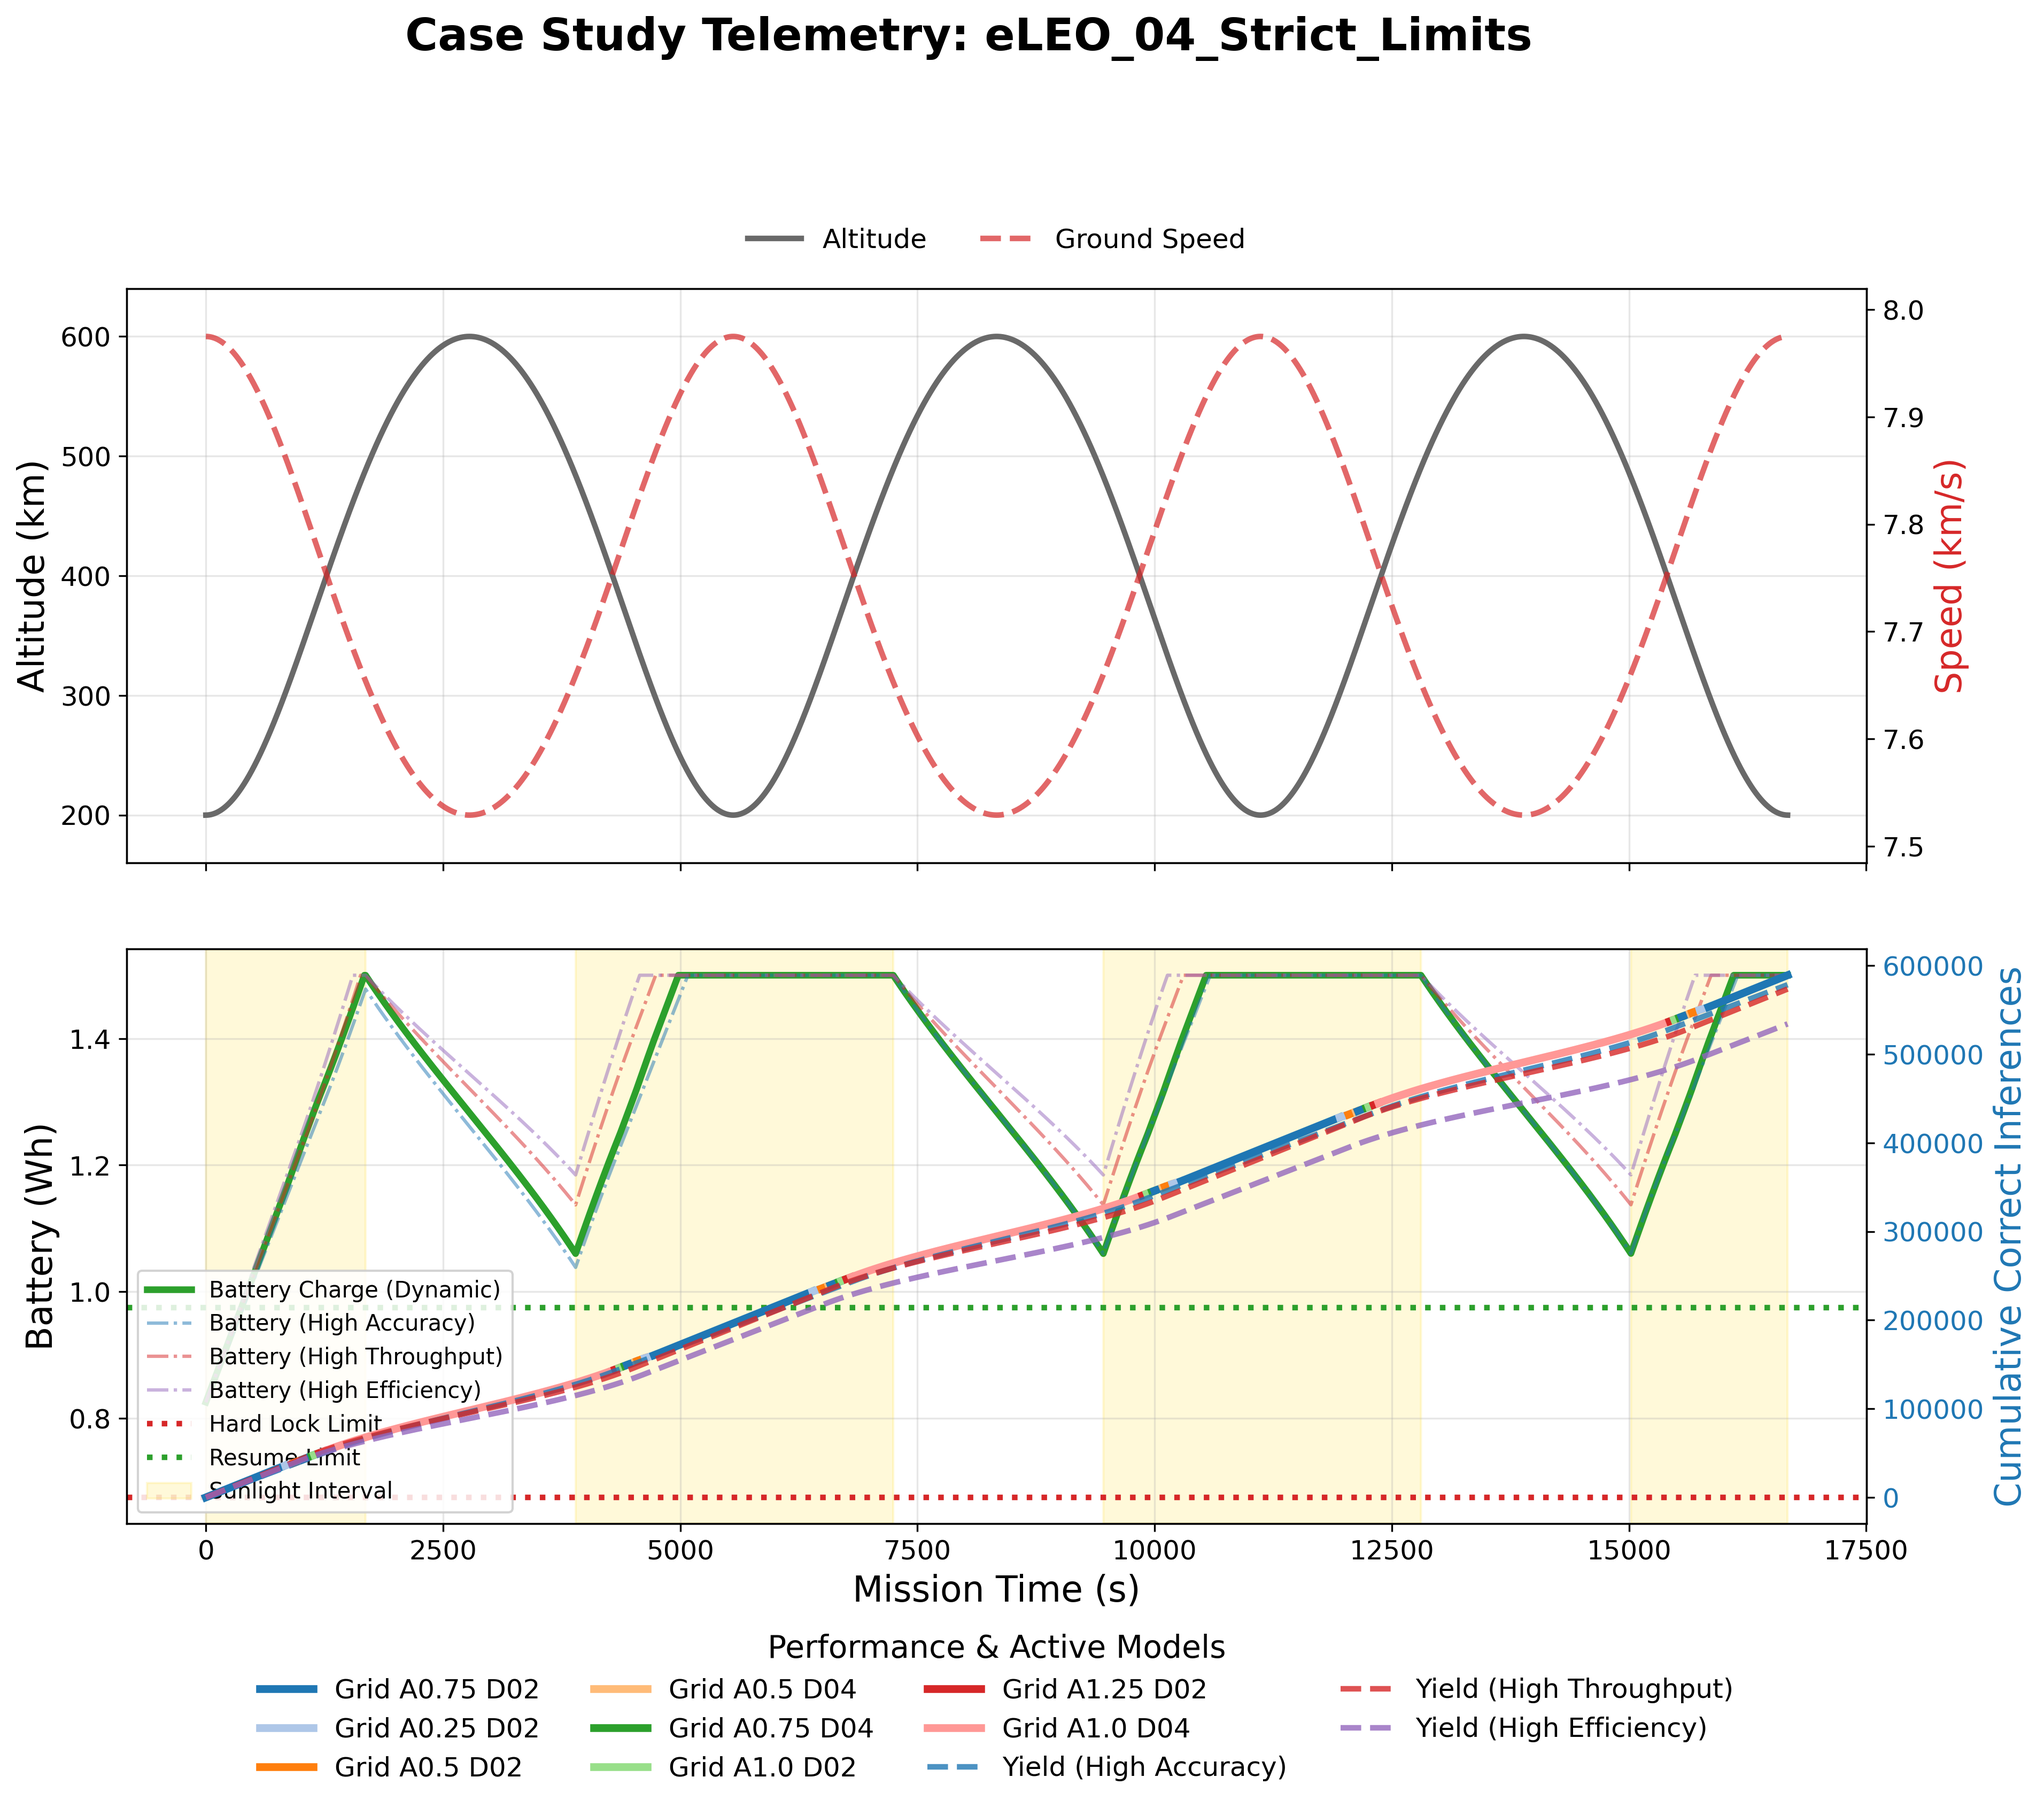
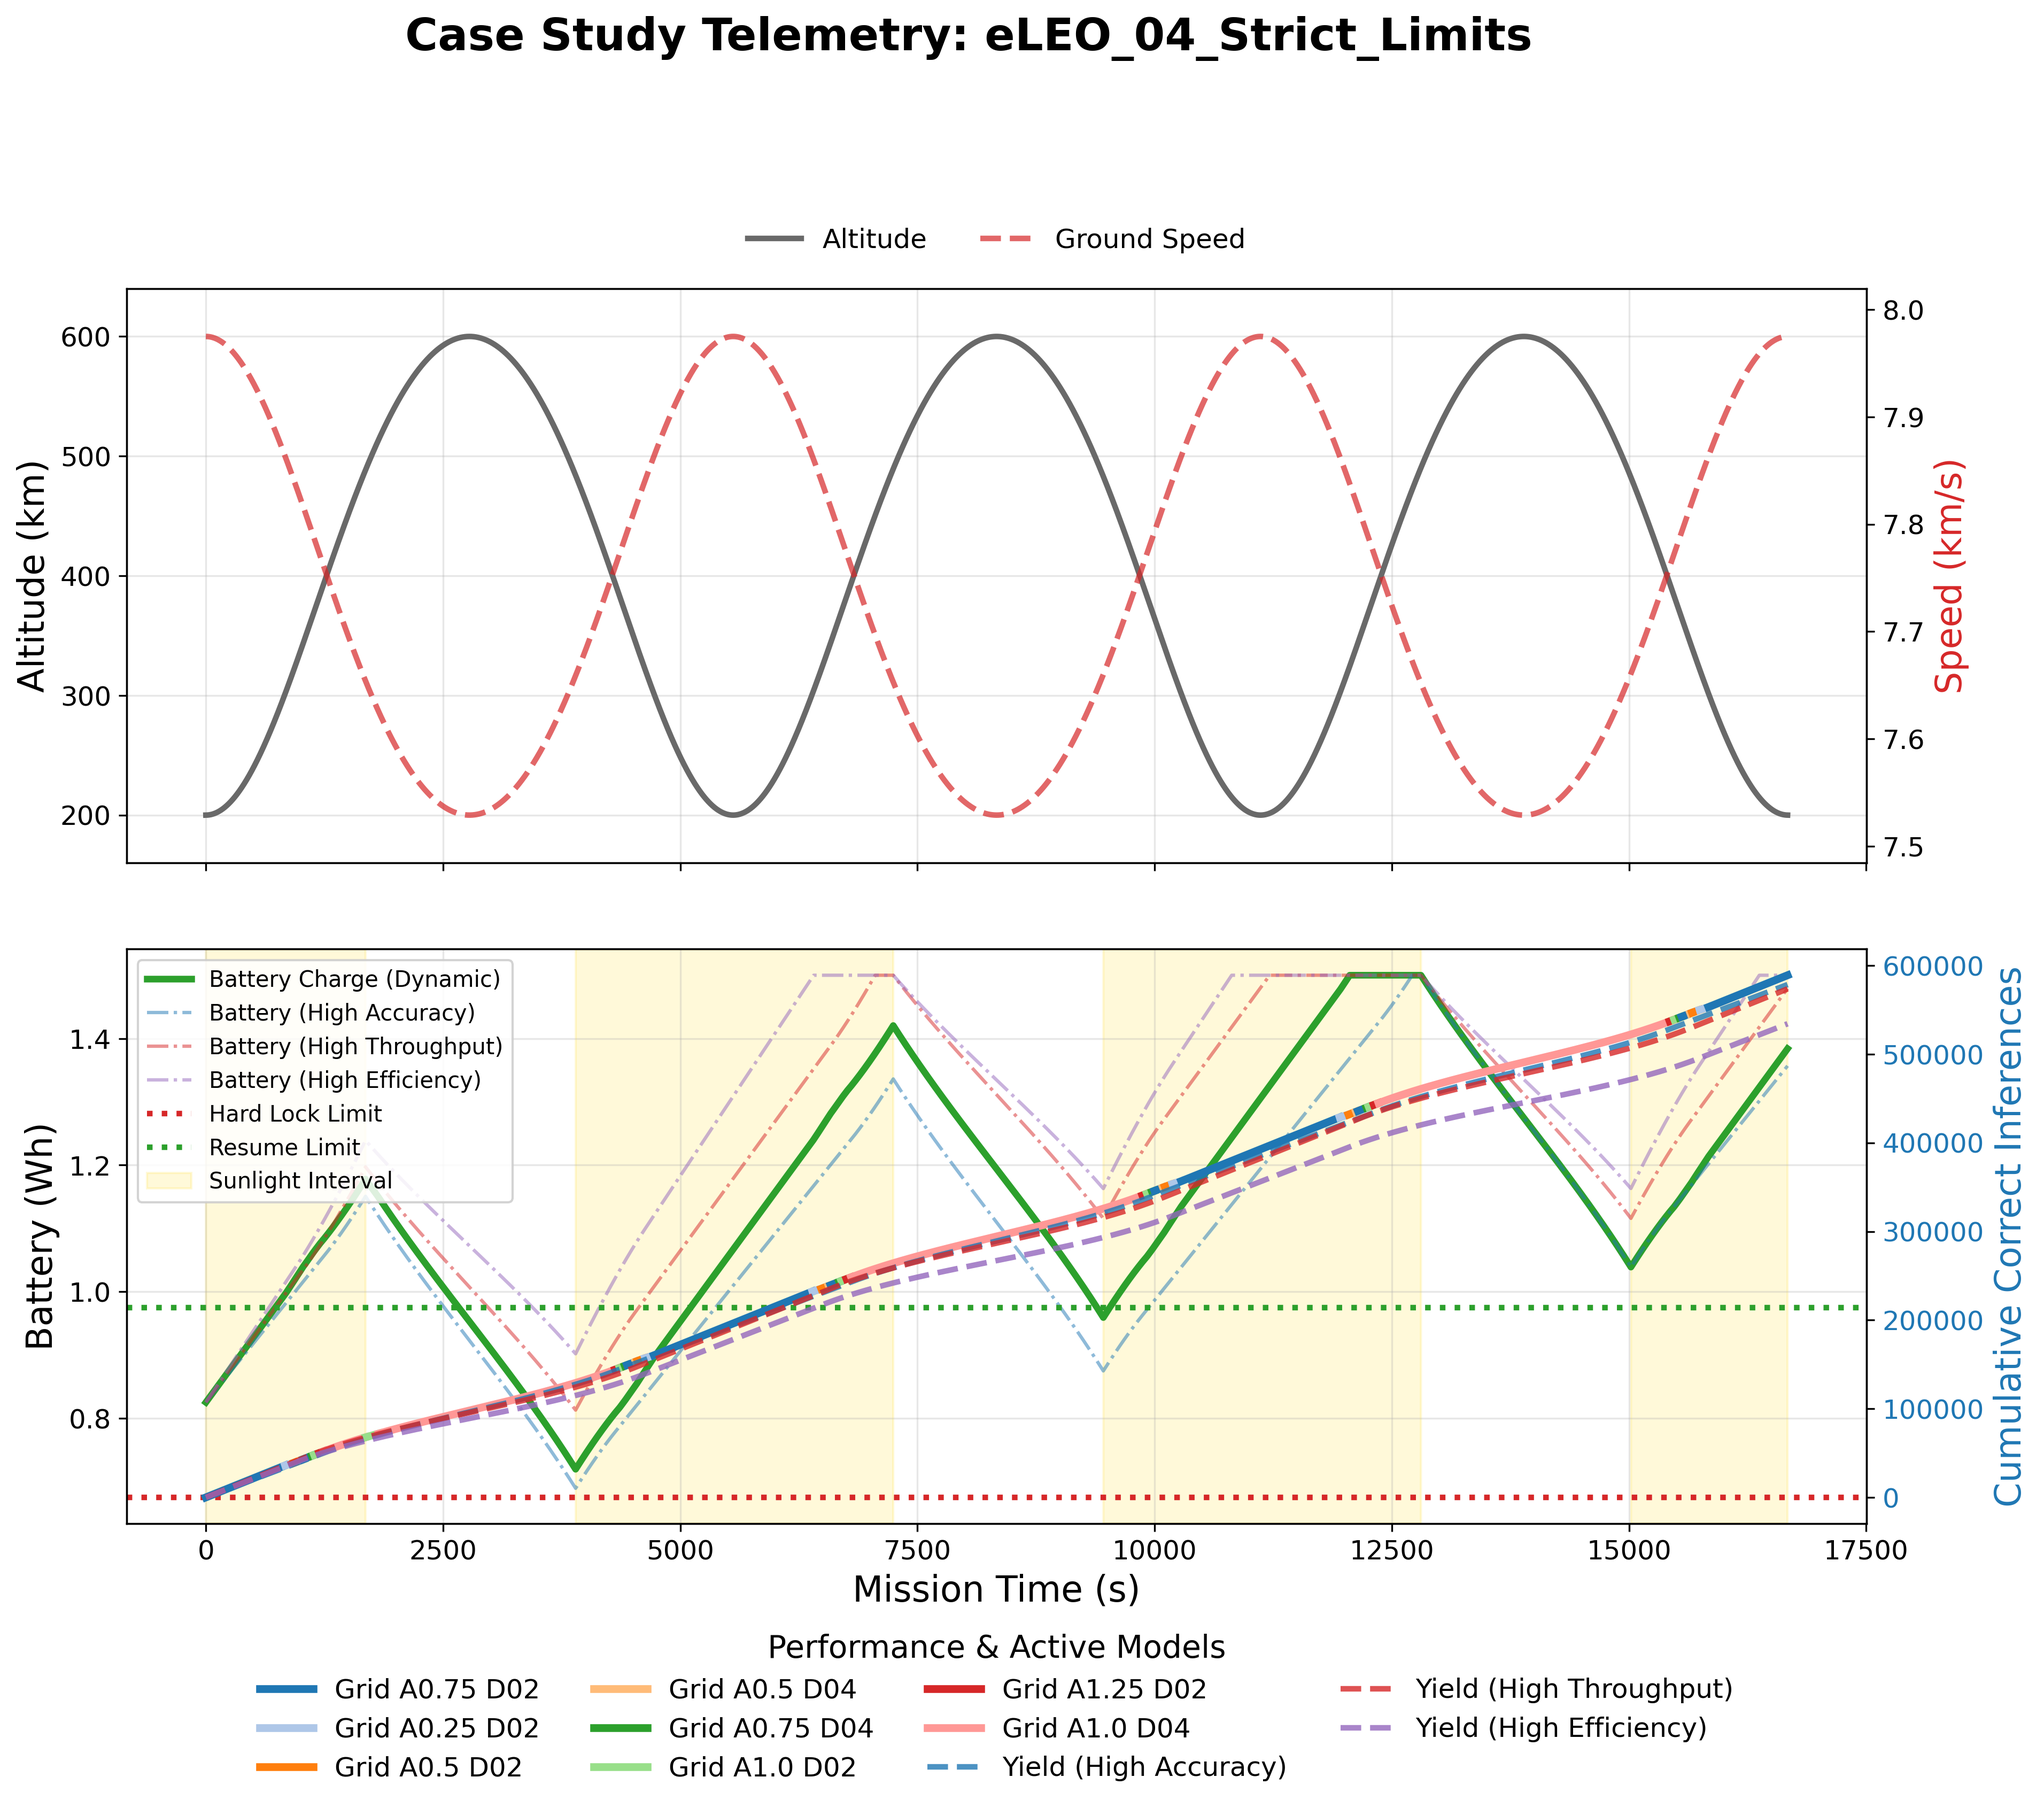
[results] legend updates

diff --git a/src/scripts/dynamic_selection_sims/plotting_utils.py b/src/scripts/dynamic_selection_sims/plotting_utils.py
@@ -124,7 +124,7 @@ def plot_mission(logs, naive_states, case_name, cfg, output_dir,
     ax2.grid(True, alpha=0.3)
     
     # Moved the legend slightly to accommodate the extra lines without covering data
-    ax2.legend(loc='lower left', frameon=True, framealpha=0.85, fontsize=10)
+    ax2.legend(loc='upper left', frameon=True, framealpha=0.85, fontsize=10)
 
     # Segmented yield & naive baselines
     ax2_t = ax2.twinx()
